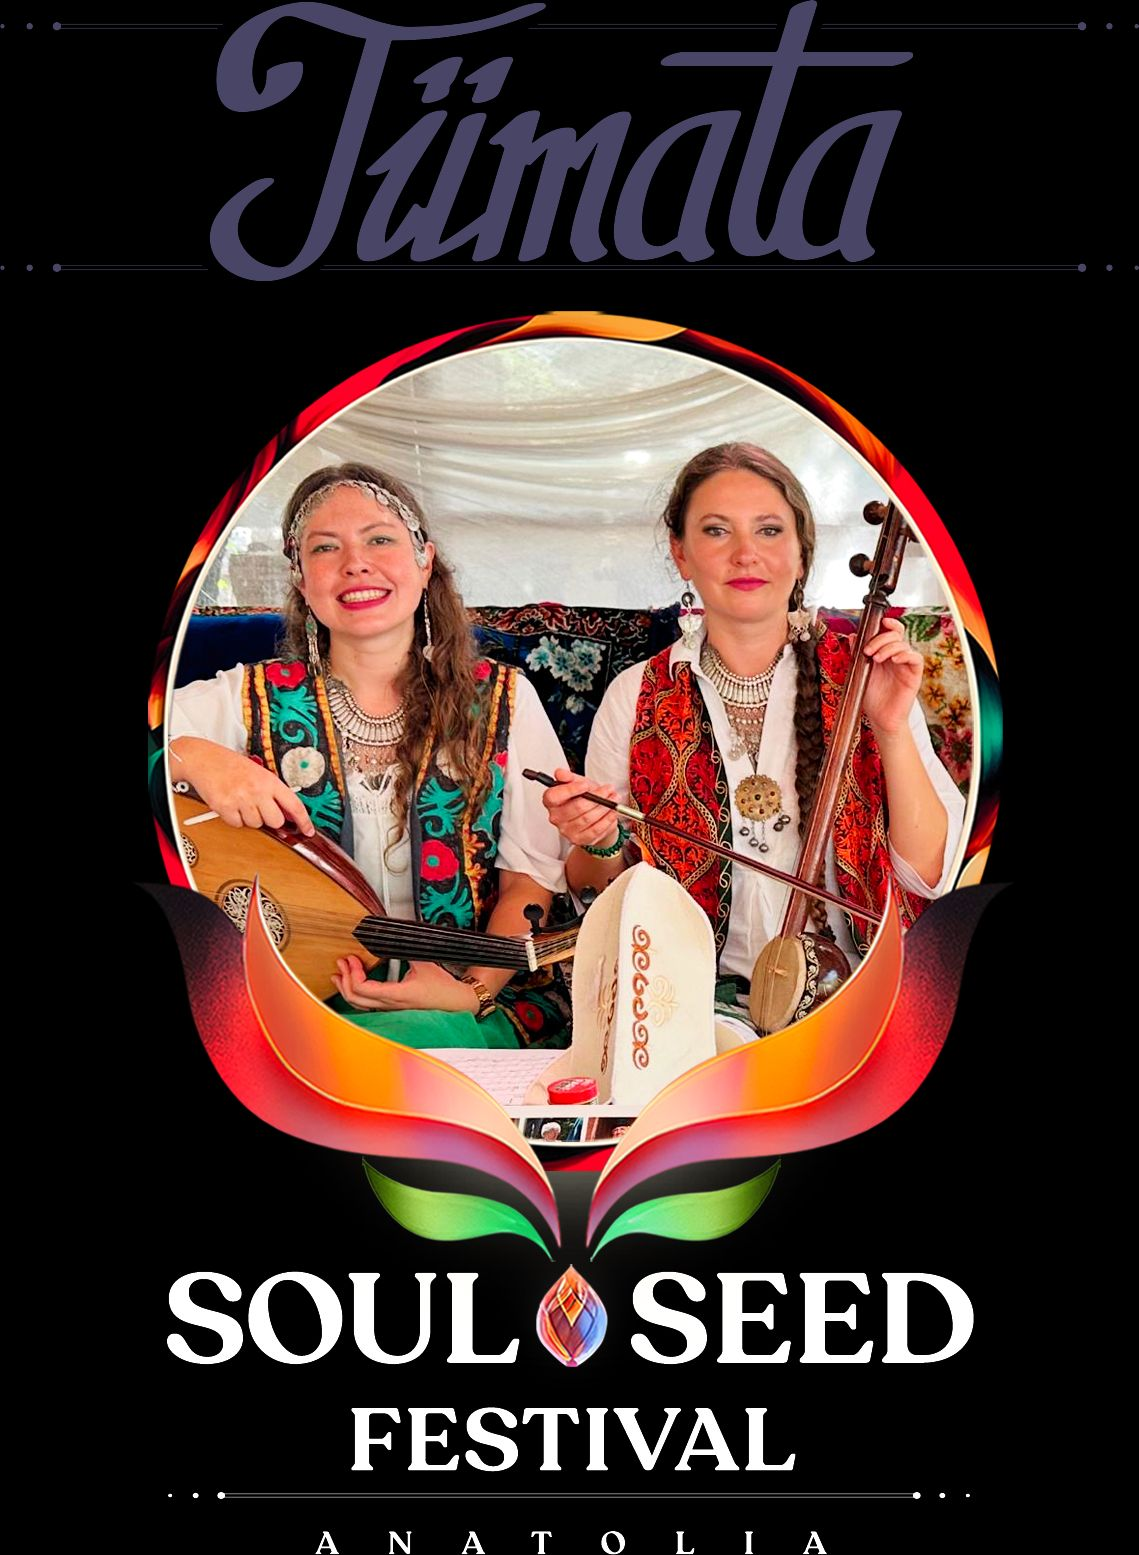
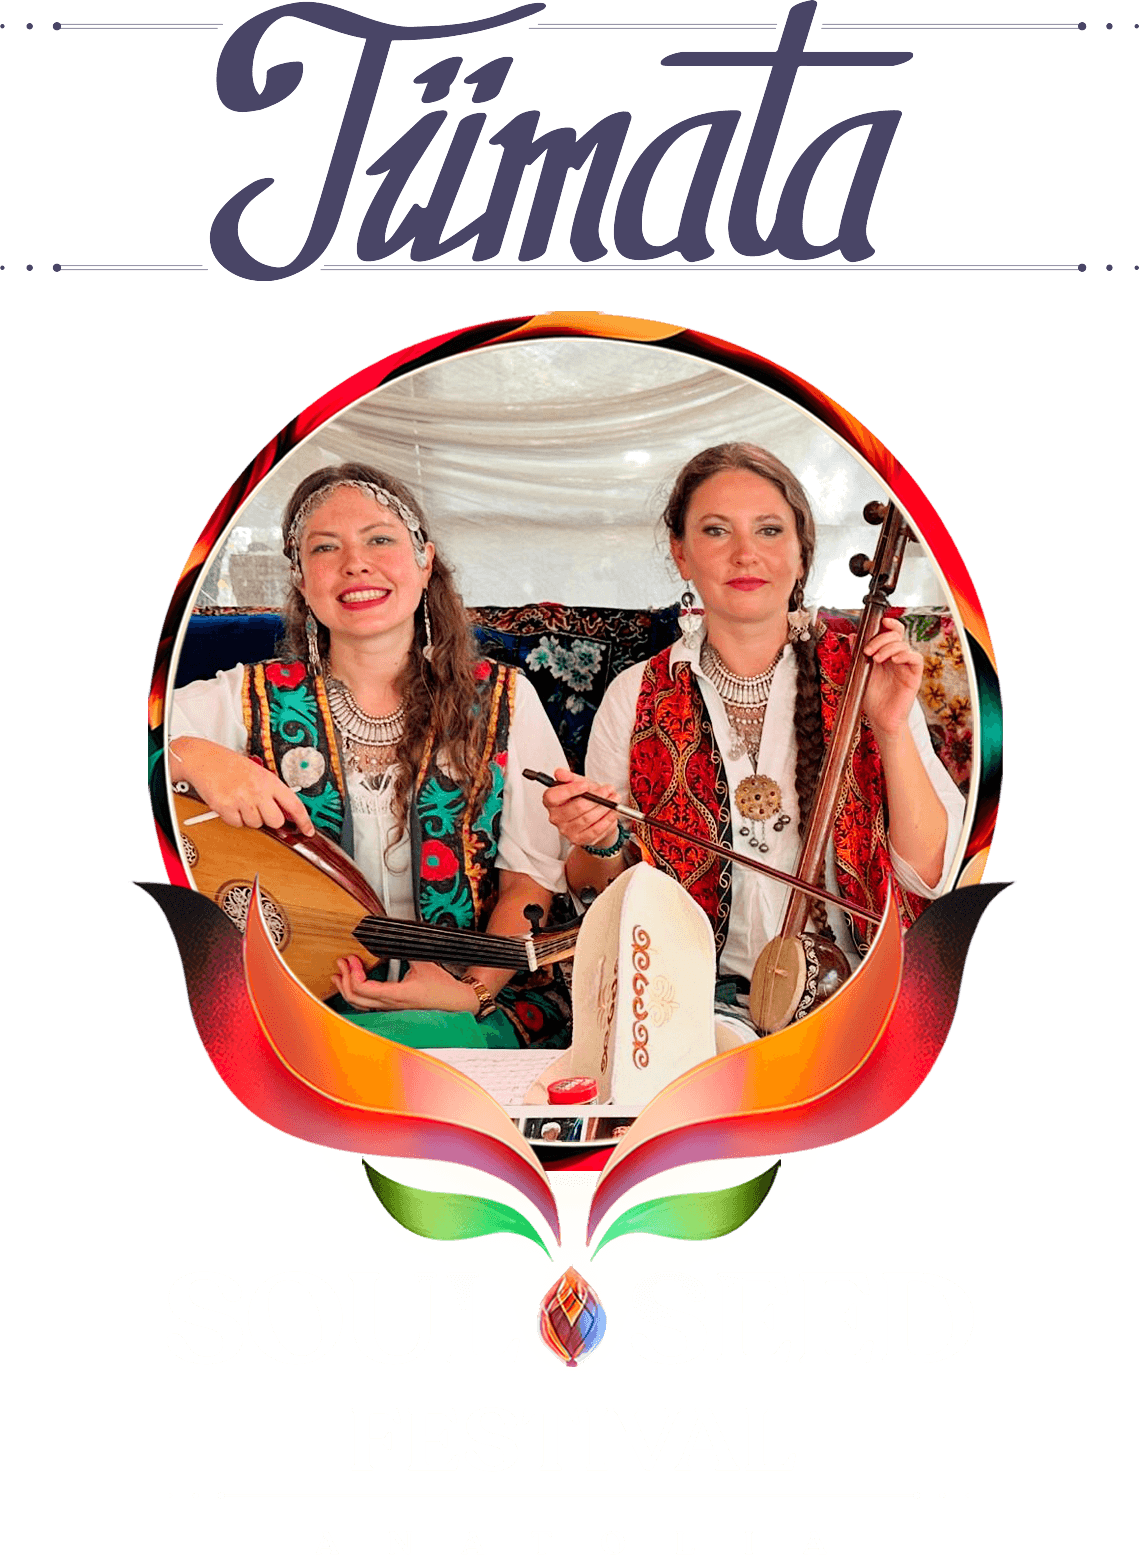
compressed2

diff --git a/scripts/compress-images.js b/scripts/compress-images.js
@@ -2,8 +2,8 @@ const sharp = require('sharp');
 const fs = require('fs');
 const path = require('path');
 
-const sourceDir = path.join(__dirname, '../assets');
-const outputDir = path.join(__dirname, '../assets-compressed');
+const sourceDir = path.join(__dirname, '../assets-full');
+const outputDir = path.join(__dirname, '../assets');
 
 // Create output directory if it doesn't exist
 if (!fs.existsSync(outputDir)) {
@@ -14,6 +14,7 @@ async function compressImage(inputPath, outputPath) {
     try {
         const image = sharp(inputPath);
         const metadata = await image.metadata();
+        const isPNG = inputPath.toLowerCase().endsWith('.png');
         
         // Calculate new dimensions while maintaining aspect ratio
         // Max width of 1920px for hero images
@@ -26,16 +27,26 @@ async function compressImage(inputPath, outputPath) {
             newHeight = Math.round((metadata.height * maxWidth) / metadata.width);
         }
 
-        await image
-            .resize(newWidth, newHeight, {
-                fit: 'inside',
-                withoutEnlargement: true
-            })
-            .jpeg({
-                quality: 80, // Good balance between quality and size
-                progressive: true // Creates a progressive JPEG
-            })
-            .toFile(outputPath);
+        let pipeline = image.resize(newWidth, newHeight, {
+            fit: 'inside',
+            withoutEnlargement: true
+        });
+
+        // Preserve file format and handle transparency
+        if (isPNG) {
+            pipeline = pipeline.png({
+                quality: 80,
+                compressionLevel: 9,
+                palette: true
+            });
+        } else {
+            pipeline = pipeline.jpeg({
+                quality: 80,
+                progressive: true
+            });
+        }
+
+        await pipeline.toFile(outputPath);
 
         const originalSize = fs.statSync(inputPath).size;
         const compressedSize = fs.statSync(outputPath).size;
